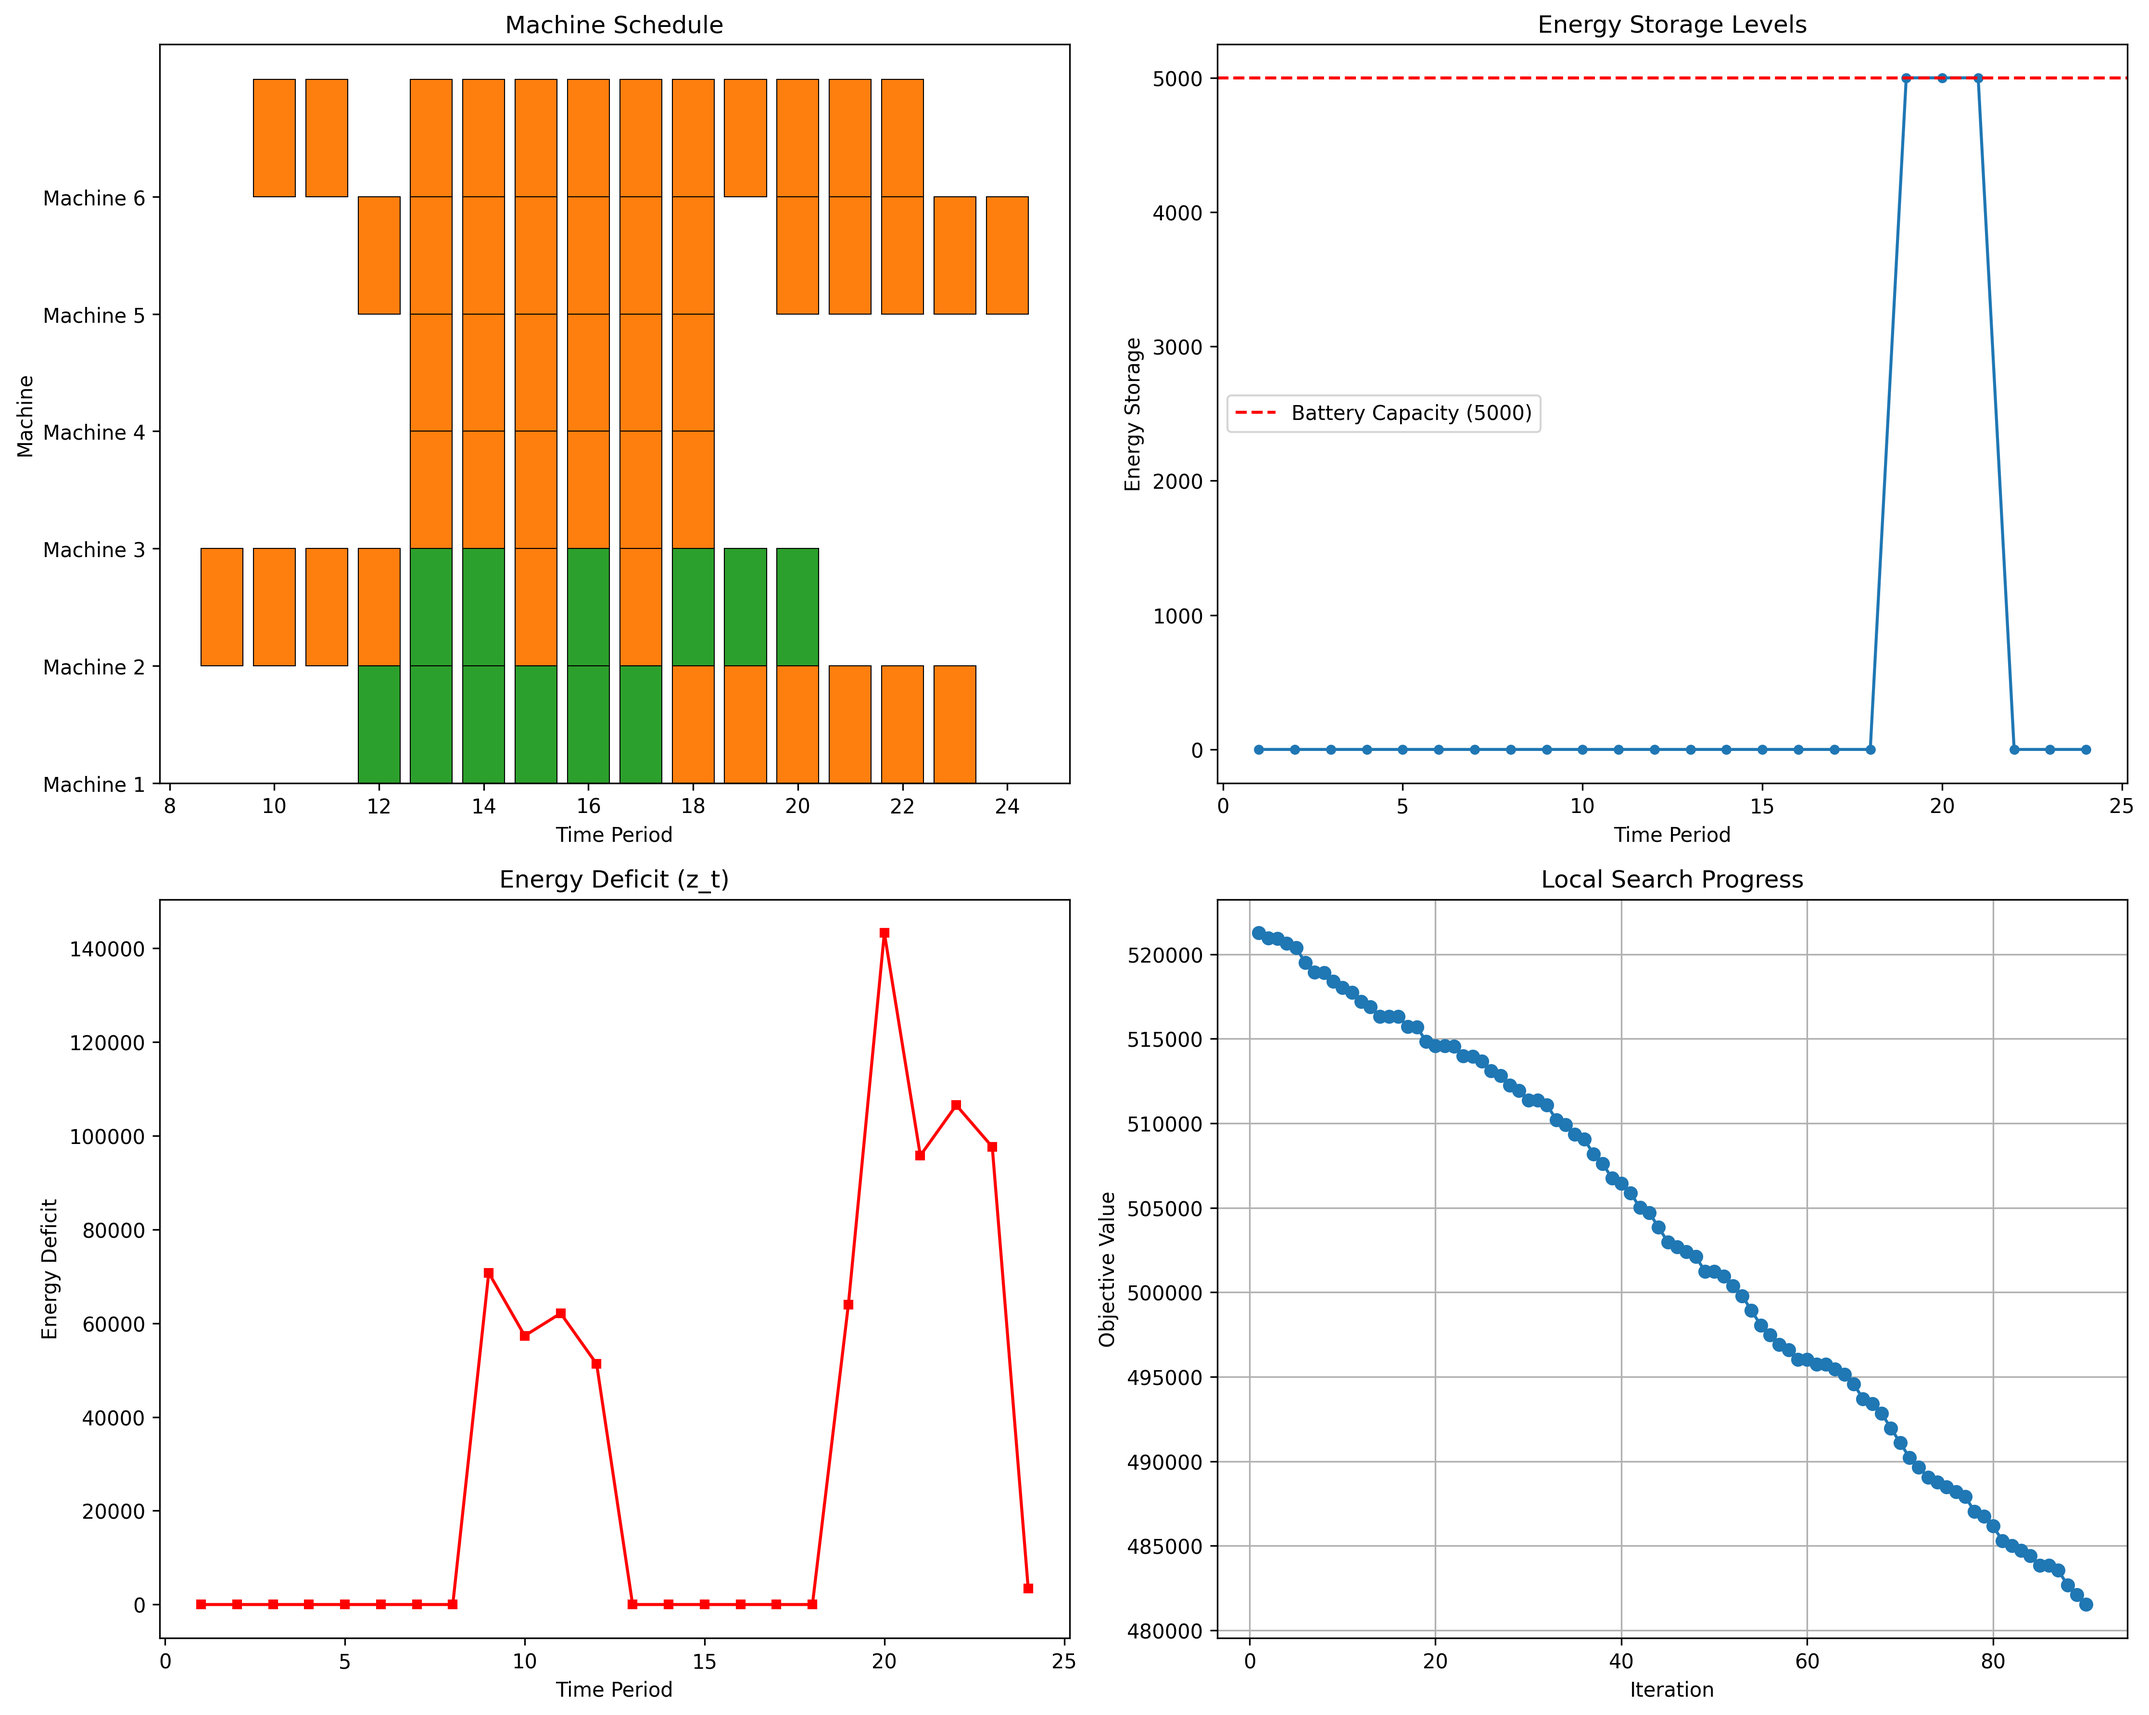
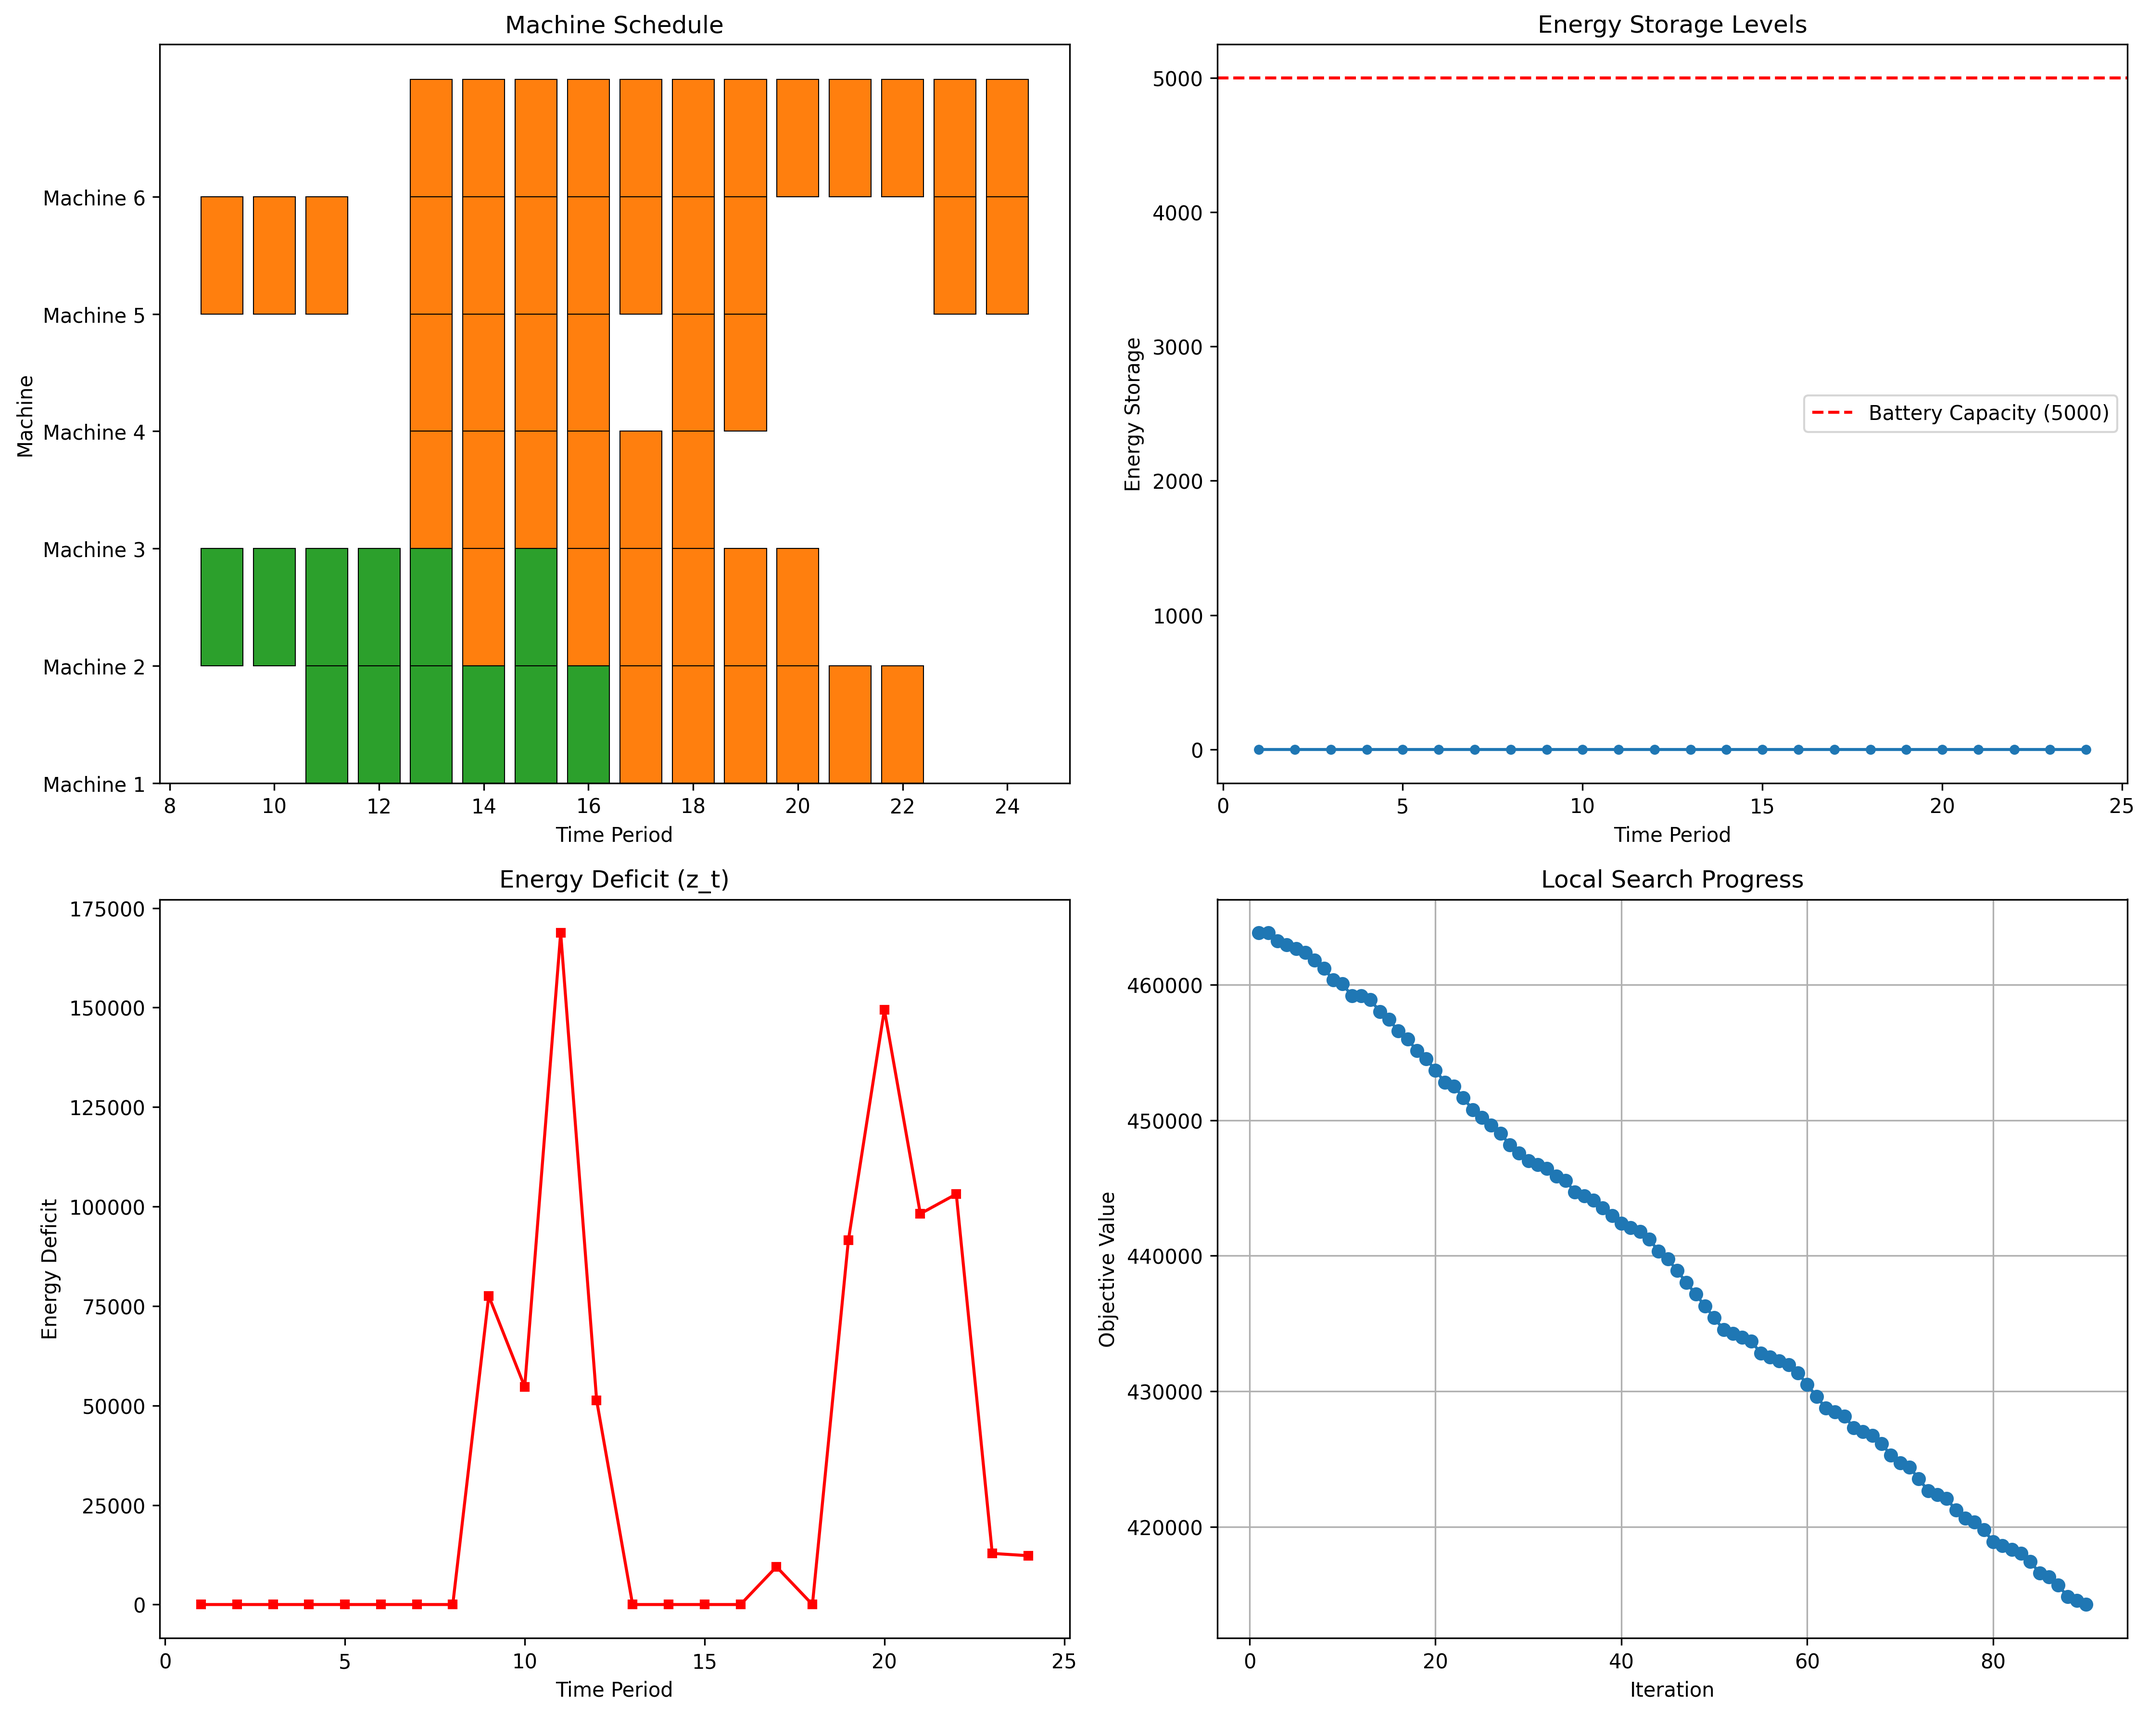
Output of phase 3

diff --git a/scheduling_problem/_3_local_search.py b/scheduling_problem/_3_local_search.py
@@ -213,7 +213,7 @@ class LocalSearchSolver:
         print("Finding initial solution...")
         
         # Start with a generous estimate
-        initial_M = 1600
+        initial_M = 1428
         initial_N = 1
         
         model = self.create_model(M_fixed=initial_M, N_fixed=initial_N)
@@ -404,7 +404,7 @@ if __name__ == "__main__":
     
     # Run local search
     best_M, best_N, best_obj, best_model, improvements = solver.local_search(
-        max_iterations=90, 
+        max_iterations=1000, 
         timeout_per_solve=45
     )
     

diff --git a/scheduling_problem/_4_3_milp.py b/scheduling_problem/_4_3_milp.py
@@ -4,7 +4,7 @@ from combine_data import get_data
 
 # Output of phase 3
 M = 15
-N = 20
+N = 1
 
 BIG_M = 1000000
 
